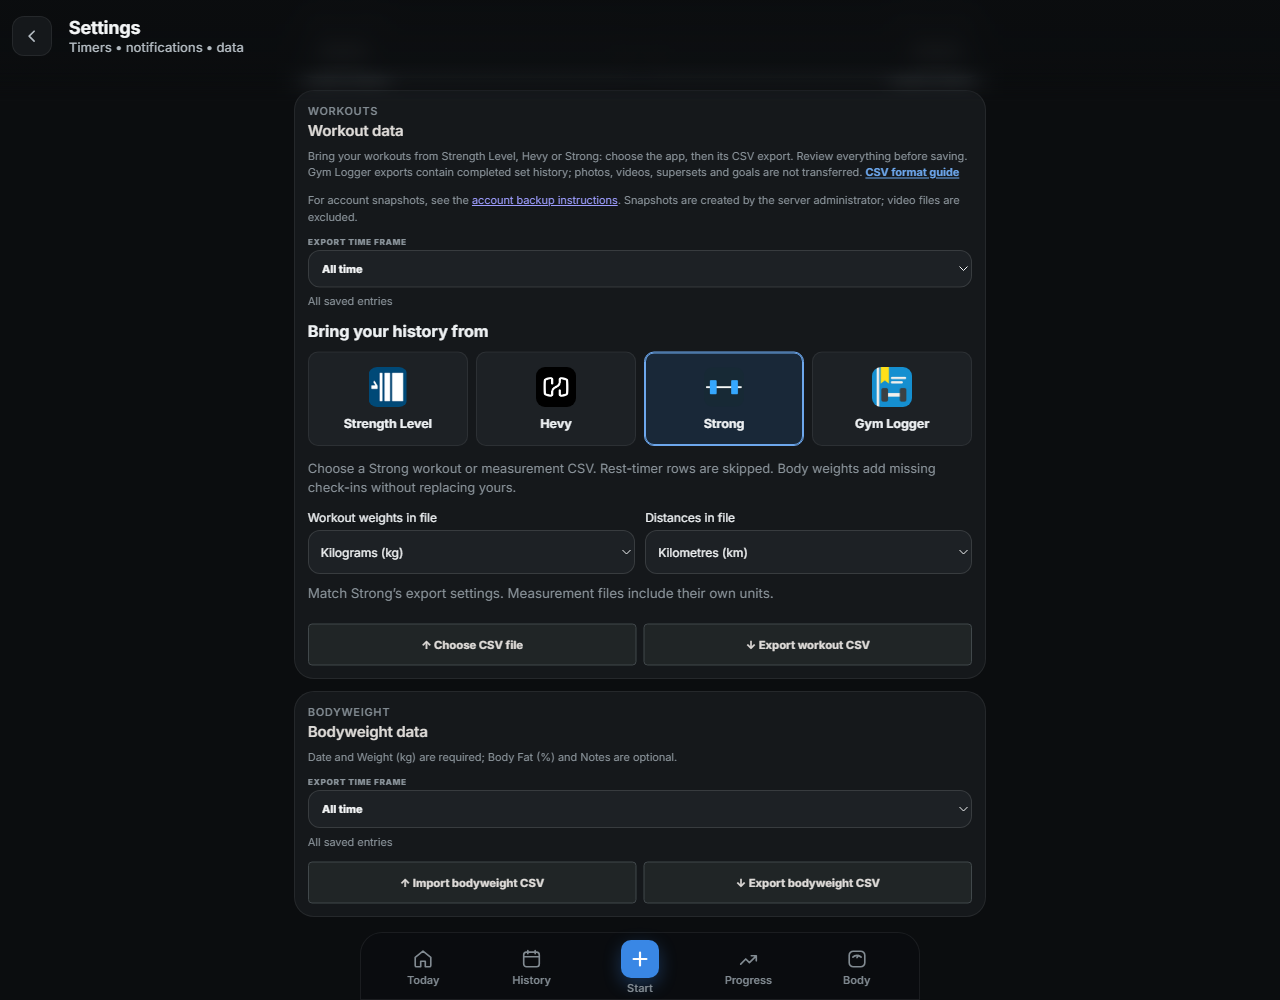
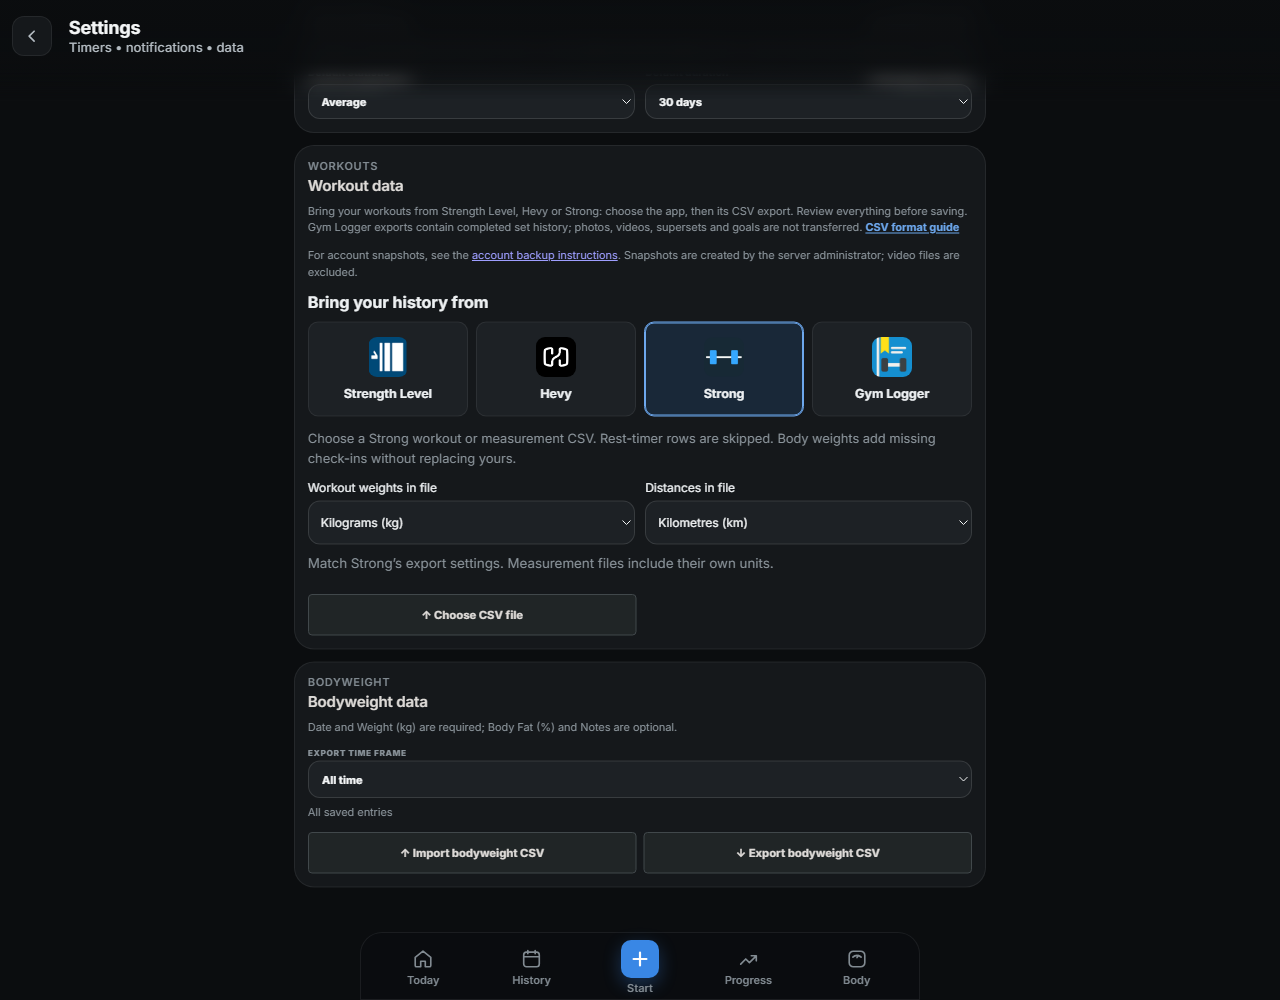
Show workout export controls only for Gym Logger

diff --git a/frontend/src/App.tsx b/frontend/src/App.tsx
@@ -6346,6 +6346,8 @@ function SettingsScreen({
   const workoutDataSection = useRef<HTMLElement>(null);
   const [exportingWorkouts, setExportingWorkouts] = useState(false);
   const [workoutExportRange, setWorkoutExportRange] = useState<TimeRange>('all');
+  const [workoutImportSource, setWorkoutImportSource] =
+    useState<WorkoutImportOptions['source']>('gym');
   const [bodyExportRange, setBodyExportRange] = useState<TimeRange>('all');
   const [importingBodyCsv, setImportingBodyCsv] = useState(false);
   const [exportingBodyCsv, setExportingBodyCsv] = useState(false);
@@ -6999,22 +7001,31 @@ function SettingsScreen({
           </a>
           . Snapshots are created by the server administrator; video files are excluded.
         </p>
-        <ExportTimeFrame
-          label="Workout export time frame"
-          value={workoutExportRange}
-          dates={workoutDates}
-          disabled={exportingWorkouts}
-          onChange={setWorkoutExportRange}
-        />
+        {workoutImportSource === 'gym' && (
+          <ExportTimeFrame
+            label="Workout export time frame"
+            value={workoutExportRange}
+            dates={workoutDates}
+            disabled={exportingWorkouts}
+            onChange={setWorkoutExportRange}
+          />
+        )}
         <div className="settings-actions">
           <WorkoutCsvImport
             onImport={onImportWorkouts}
             guideOpen={csvGuideOpen}
             onGuideOpenChange={onCsvGuideOpenChange}
+            onSourceChange={setWorkoutImportSource}
           />
-          <button type="button" disabled={exportingWorkouts} onClick={() => void exportWorkouts()}>
-            {exportingWorkouts ? 'Exporting…' : '↓ Export workout CSV'}
-          </button>
+          {workoutImportSource === 'gym' && (
+            <button
+              type="button"
+              disabled={exportingWorkouts}
+              onClick={() => void exportWorkouts()}
+            >
+              {exportingWorkouts ? 'Exporting…' : '↓ Export workout CSV'}
+            </button>
+          )}
           {(historySummary?.has_sample_workouts ??
             workouts.some((workout) => workout.is_sample)) && (
             <InlineConfirmButton

diff --git a/frontend/src/WorkoutCsvImport.tsx b/frontend/src/WorkoutCsvImport.tsx
@@ -143,11 +143,13 @@ export function WorkoutCsvImport({
   onImport,
   guideOpen = false,
   onGuideOpenChange,
+  onSourceChange,
 }: {
   onImport: (file: File, options?: WorkoutImportOptions) => Promise<void>;
   /** The CSV guide's recommendations, opened from onboarding or Settings. */
   guideOpen?: boolean;
   onGuideOpenChange?: (open: boolean) => void;
+  onSourceChange?: (source: WorkoutImportOptions['source']) => void;
 }) {
   const input = useRef<HTMLInputElement>(null);
   const [review, setReview] = useState<{
@@ -164,6 +166,12 @@ export function WorkoutCsvImport({
     weight_unit: unit,
     distance_unit: 'km',
   });
+
+  function changeOptions(value: WorkoutImportOptions) {
+    setOptions(value);
+    setError(null);
+    onSourceChange?.(value.source);
+  }
 
   async function selectFile(file: File, selected = options) {
     setError(null);
@@ -207,10 +215,7 @@ export function WorkoutCsvImport({
     <>
       <WorkoutImportSource
         value={options}
-        onChange={(value) => {
-          setOptions(value);
-          setError(null);
-        }}
+        onChange={changeOptions}
         disabled={previewing || saving}
       />
       <input
@@ -241,7 +246,7 @@ export function WorkoutCsvImport({
       {guideOpen && onGuideOpenChange && (
         <WorkoutCsvGuide
           options={options}
-          onOptionsChange={setOptions}
+          onOptionsChange={changeOptions}
           onClose={() => onGuideOpenChange(false)}
           onFileSelected={(file, selected) => {
             onGuideOpenChange(false);

diff --git a/frontend/src/WorkoutCsvImport.test.tsx b/frontend/src/WorkoutCsvImport.test.tsx
@@ -83,6 +83,26 @@ beforeEach(() => {
 afterEach(() => vi.unstubAllGlobals());
 
 describe('workout CSV review flow', () => {
+  it('notifies Settings of source changes from both the cards and guide', () => {
+    const onSourceChange = vi.fn();
+    const nodes = elements(
+      WorkoutCsvImport({
+        onImport: vi.fn(),
+        guideOpen: true,
+        onGuideOpenChange: vi.fn(),
+        onSourceChange,
+      }),
+    );
+    const source = nodes.find((element) => element.type === WorkoutImportSource)!;
+    const guide = nodes.find((element) => element.type === WorkoutCsvGuide)!;
+    for (const selected of ['strengthlevel', 'hevy', 'strong', 'gym']) {
+      (source.props.onChange as (value: unknown) => void)({ ...options, source: selected });
+      expect(onSourceChange).toHaveBeenLastCalledWith(selected);
+    }
+    (guide.props.onOptionsChange as (value: unknown) => void)({ ...options, source: 'hevy' });
+    expect(onSourceChange).toHaveBeenLastCalledWith('hevy');
+  });
+
   it('saves with the source and units used by the preview even if the selector changes', async () => {
     vi.mocked(api.previewWorkoutImport).mockResolvedValue(preview);
     const onImport = vi.fn().mockResolvedValue(undefined);

diff --git a/docs/RELEASE-NOTES.md b/docs/RELEASE-NOTES.md
@@ -12,7 +12,7 @@
 
 ![Workout data in Settings with four app logos and Strong weight and distance unit controls](screenshots/releases/0.8.0-settings-app-import.png)
 
-*Strong workout exports use the units you select; measurement files supply their own units.*
+*Strong shows import controls only. Select Gym Logger to export workouts or choose an export date range.*
 
 ![Workout import review with the sessions and sets being added highlighted in green](screenshots/releases/0.8.0-import-totals.png)
 
@@ -24,7 +24,8 @@
   **Settings > Workout data** or the import guide. All four options are matching logo
   buttons; Gym Logger replaces the spreadsheet hyperlink and also accepts template-based
   spreadsheets. They form a row on larger screens and two rows on phones. Upload the original CSV;
-  no column renaming is needed. Gym Logger exports and the spreadsheet template still work.
+  no column renaming is needed. The workout export button and export date range appear
+  only when Gym Logger is selected. Gym Logger exports and the spreadsheet template still work.
 - Hevy and Strong keep workout names and separate sessions on one date, warmups,
   drop sets, RPE, workout and exercise notes, workout duration and set duration/distance.
   Strong failed sets are kept. Timed cardio movements also populate Cardio.
